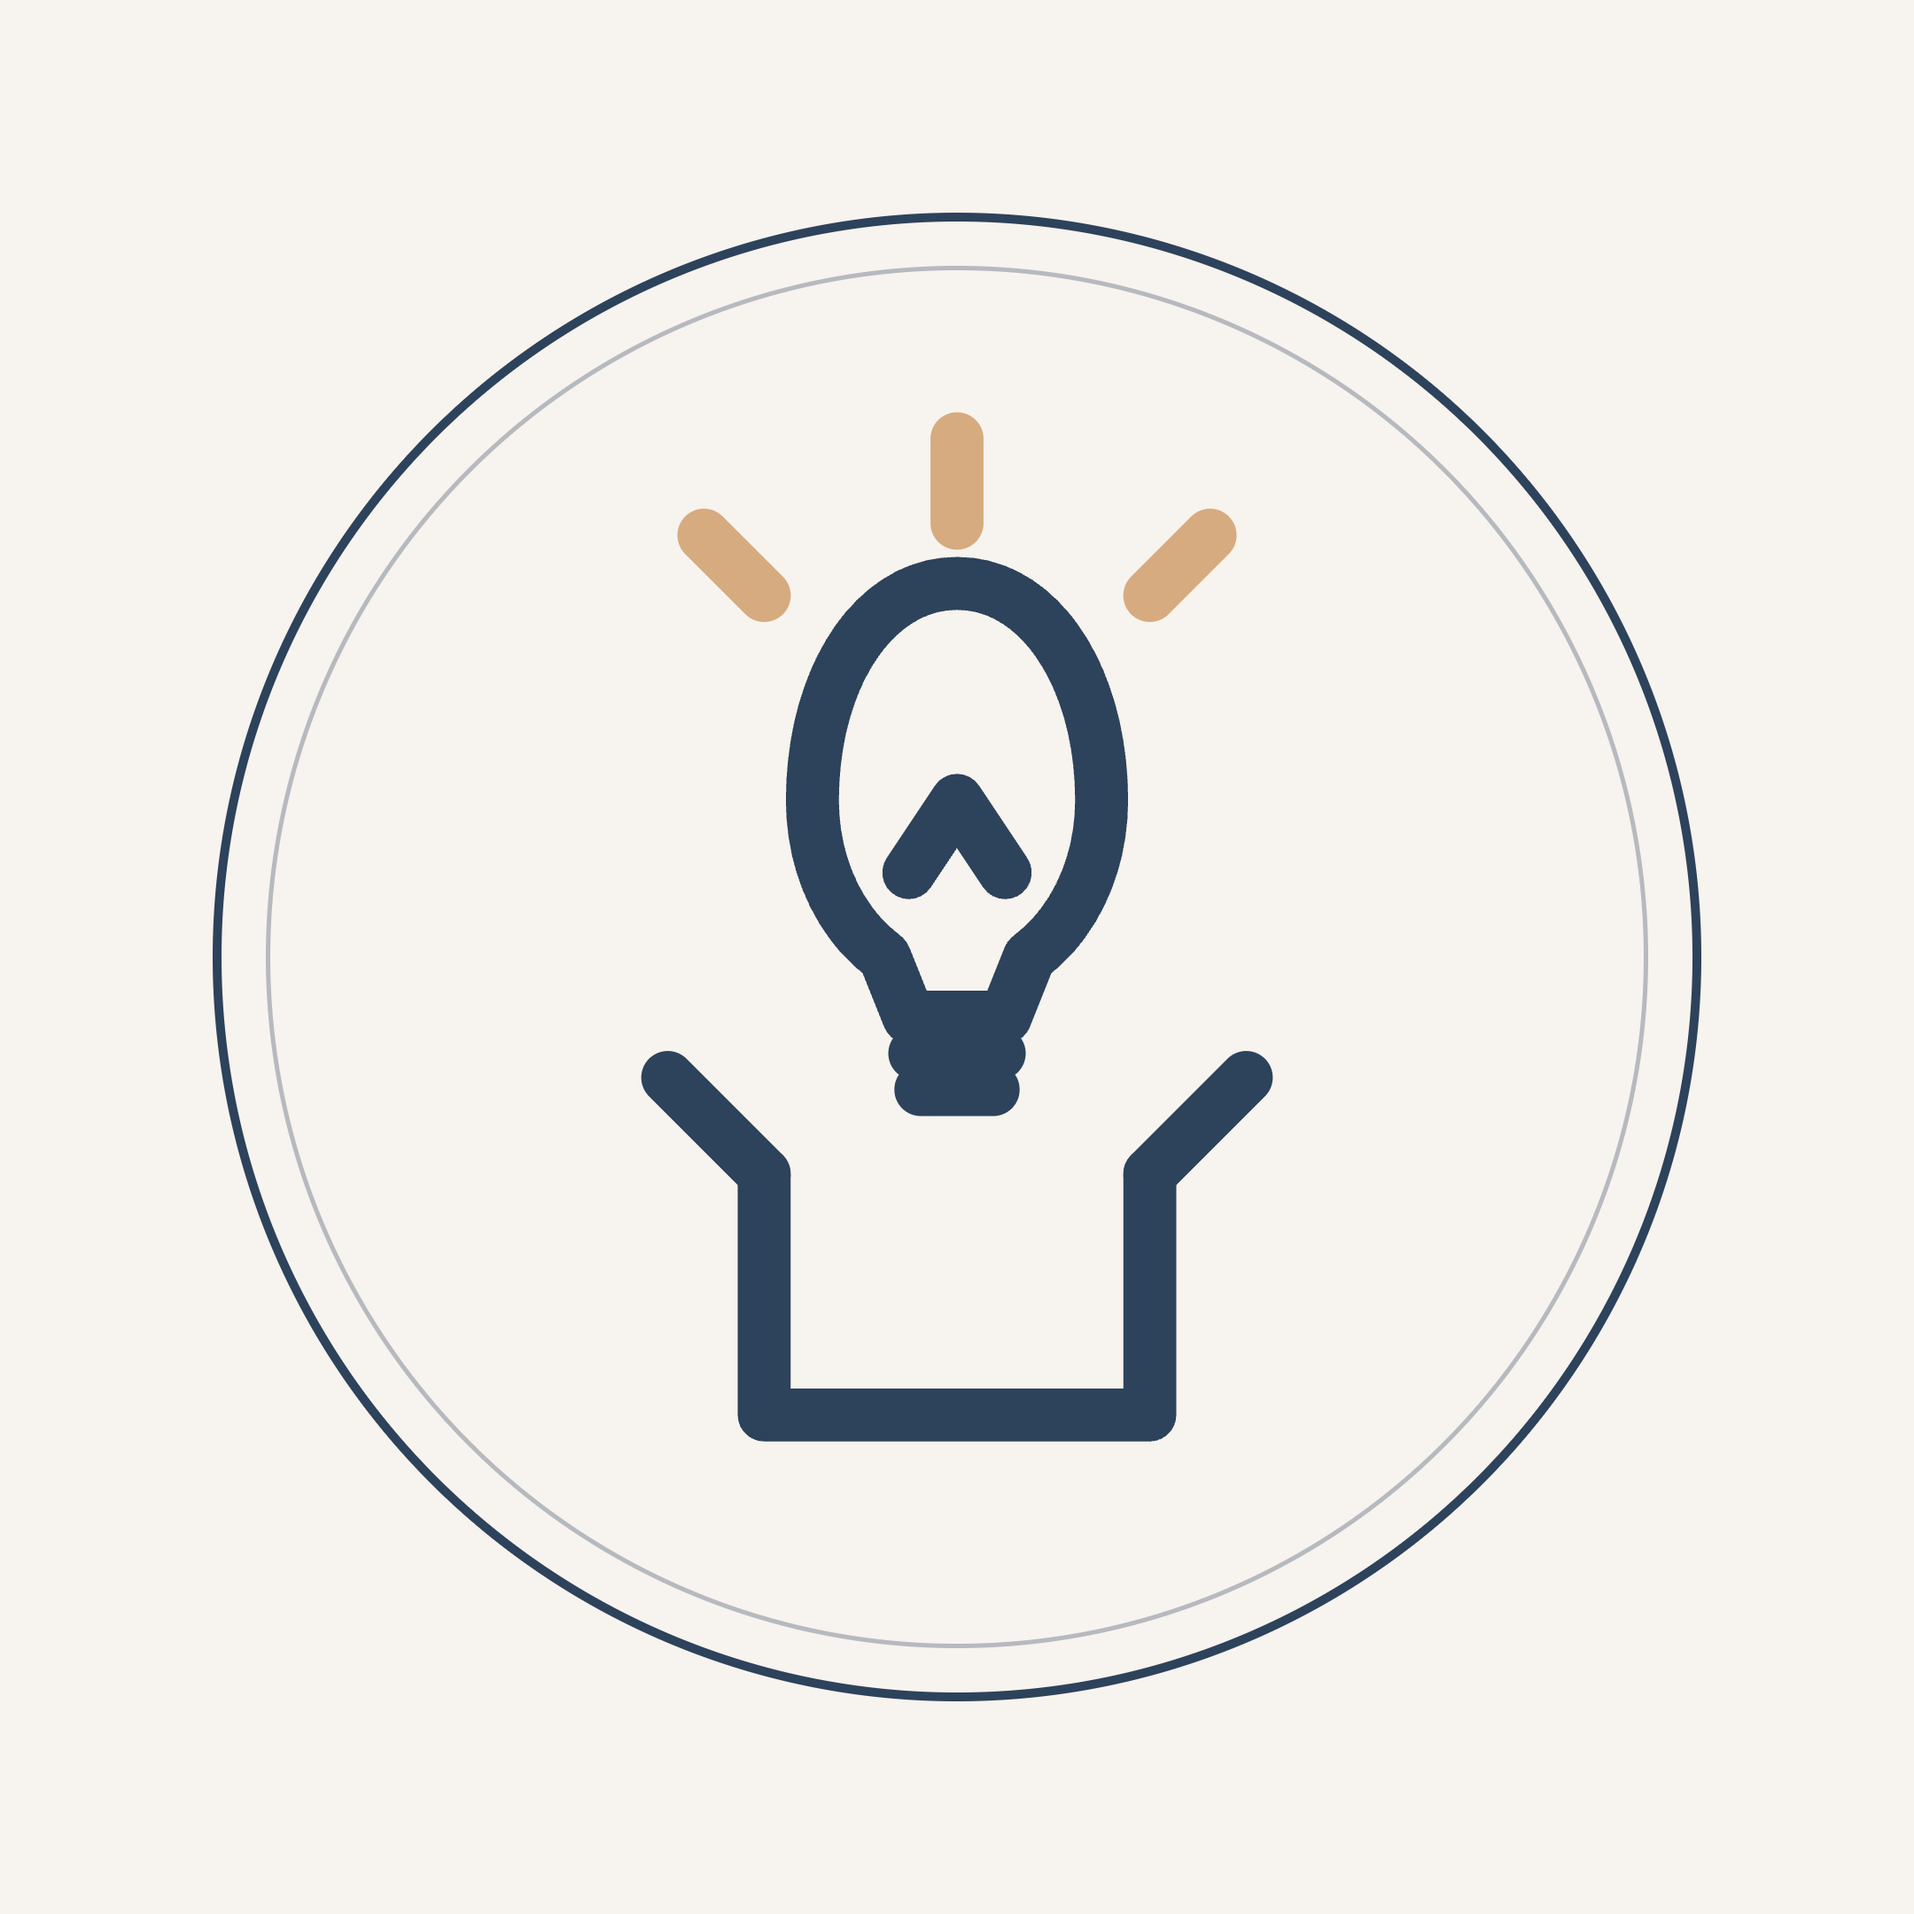
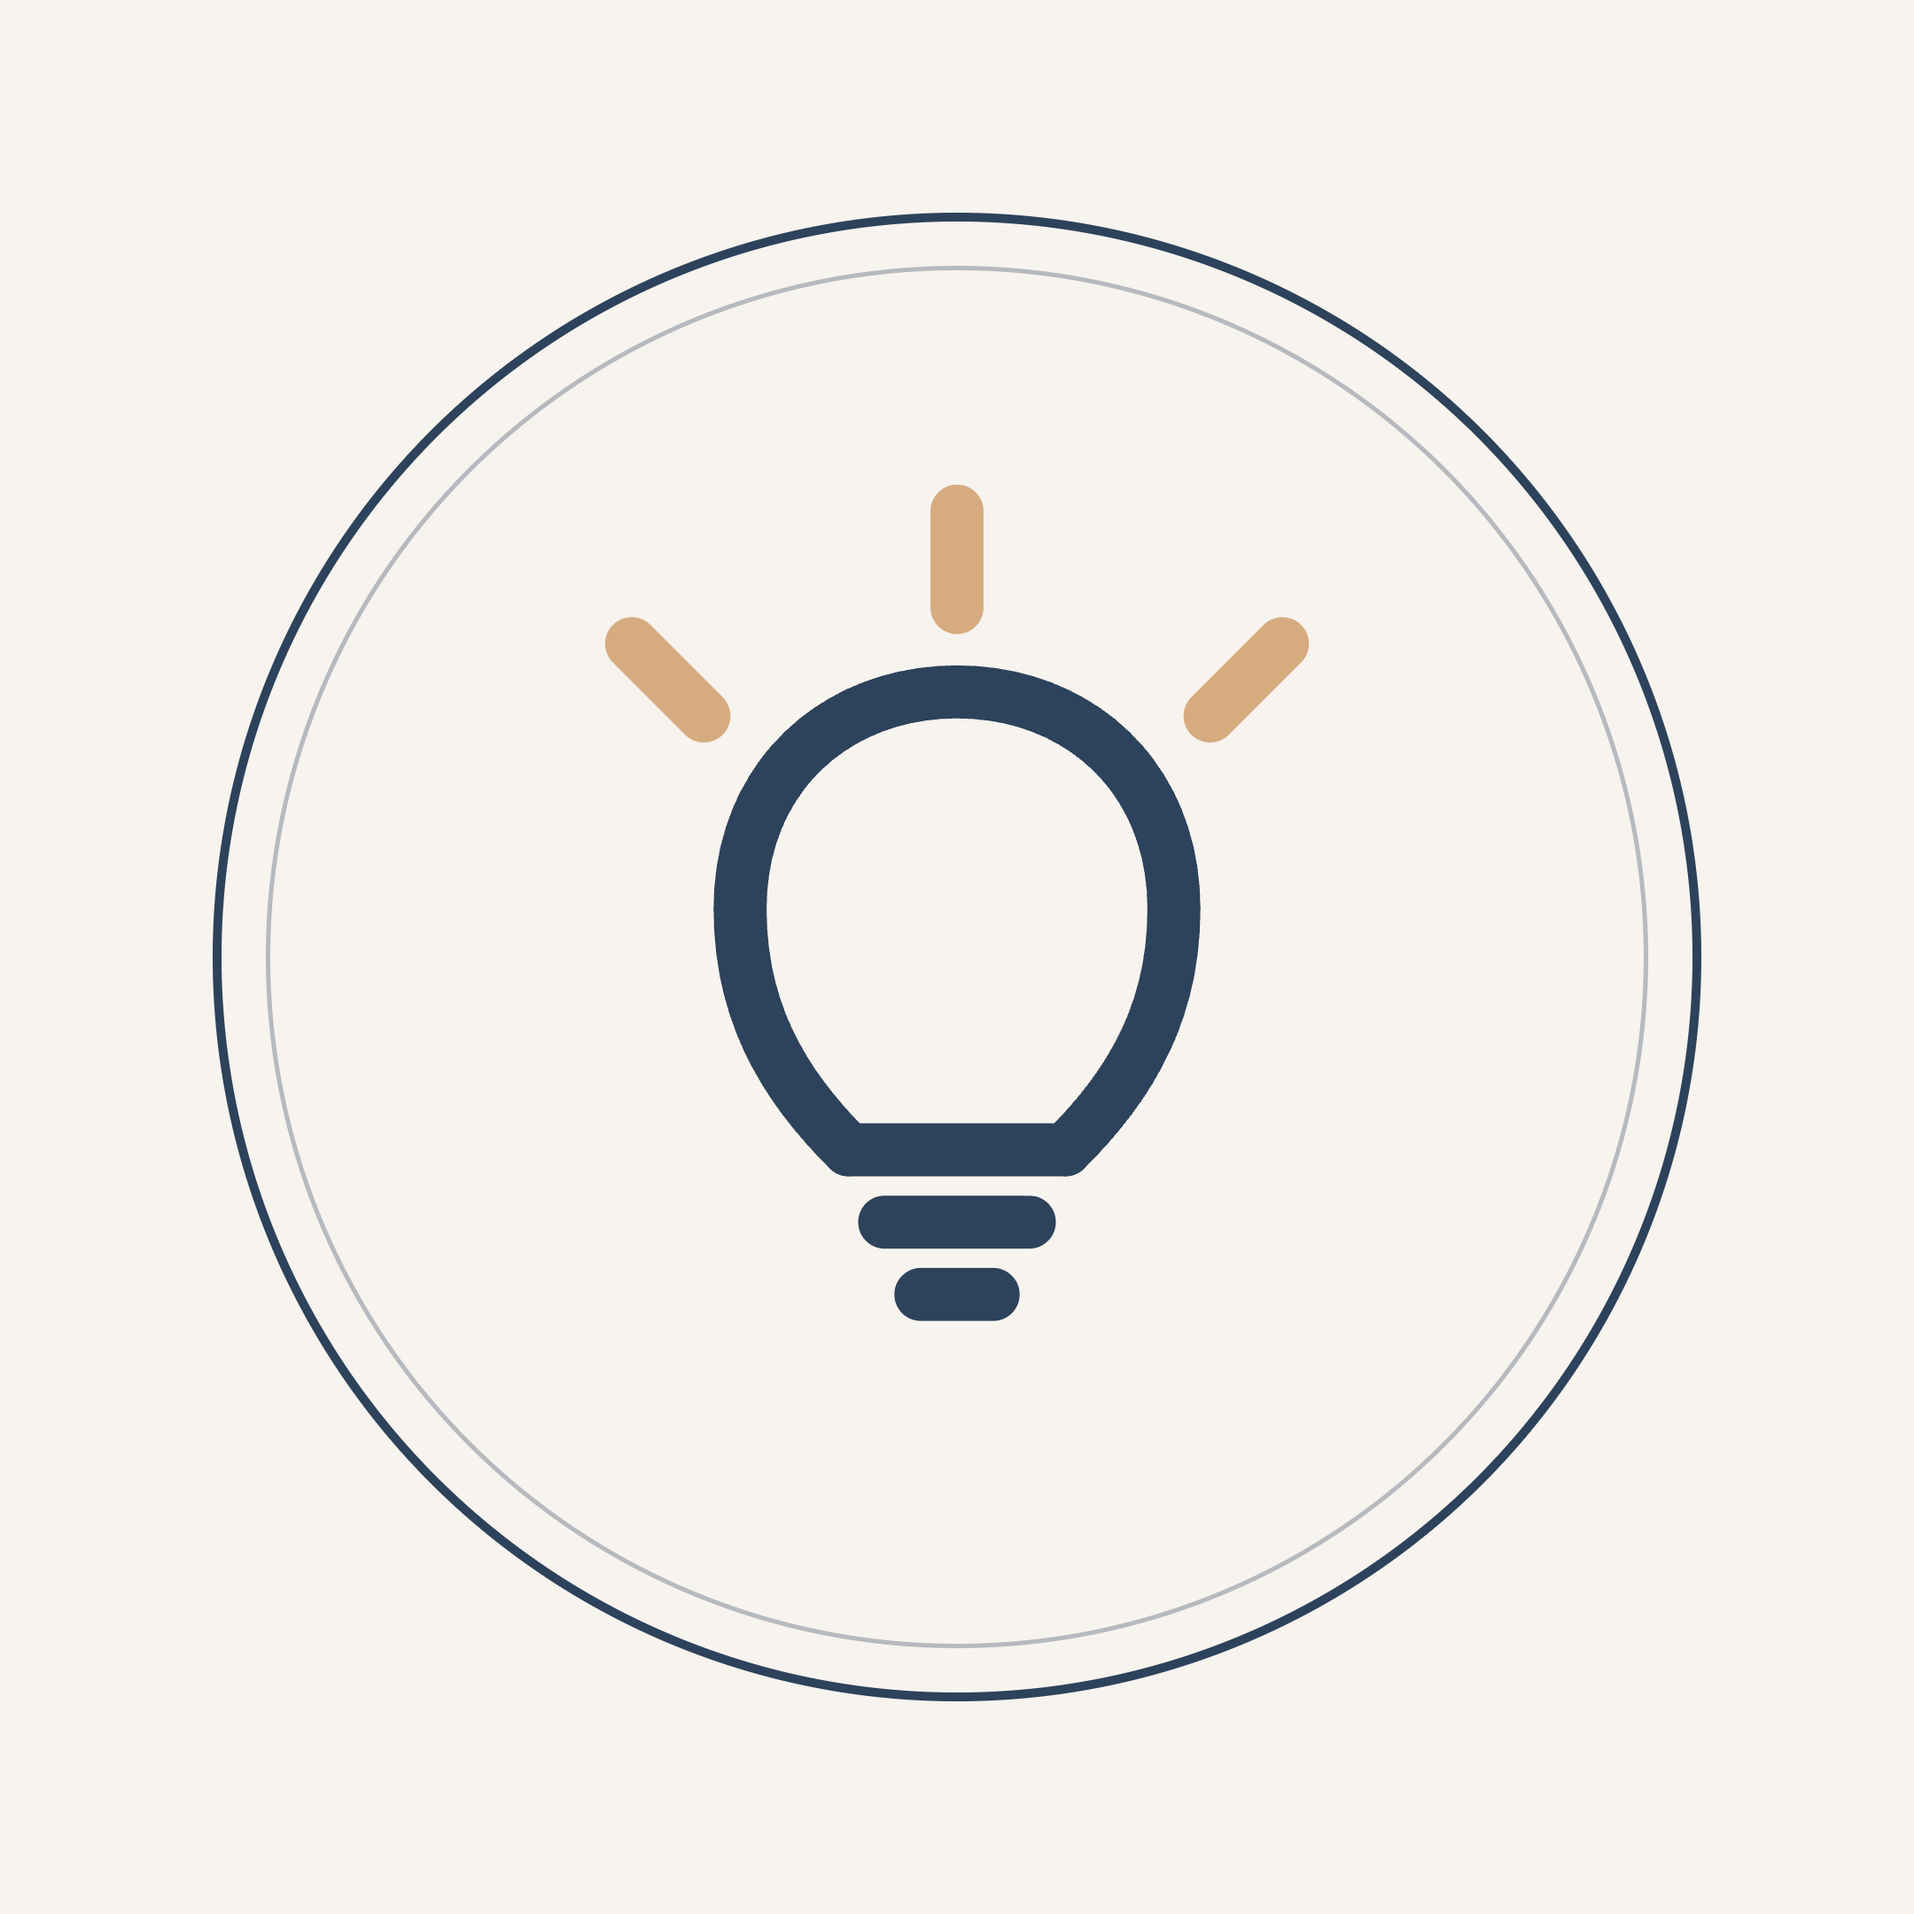
Package Ideas: plain lightbulb (round glass + screw base), drop the box

Changed region(s): [[0.3102, 0.2171, 0.6824, 0.7755]]

diff --git a/social/highlights.html b/social/highlights.html
@@ -96,21 +96,15 @@
     <div class="stage"><div class="cover" id="cover-ideas"><div class="bubble">
       <svg class="icon" viewBox="0 0 100 100">
         <!-- tan idea glow -->
-        <line class="a" x1="50" y1="7" x2="50" y2="14"/>
-        <line class="a" x1="29" y1="15" x2="34" y2="20"/>
-        <line class="a" x1="71" y1="15" x2="66" y2="20"/>
-        <!-- bulb glass: taller than wide, pinches to a neck -->
-        <path class="s" d="M44 50 C40 47 38 42 38 37 C38 27 43 19 50 19 C57 19 62 27 62 37 C62 42 60 47 56 50"/>
-        <!-- filament -->
-        <path class="s" d="M46 43 L50 37 L54 43"/>
-        <!-- neck + screw base -->
-        <path class="s" d="M44 50 L46 55 L54 55 L56 50"/>
-        <line class="s" x1="46.5" y1="58" x2="53.5" y2="58"/>
-        <line class="s" x1="47" y1="61" x2="53" y2="61"/>
-        <!-- open box -->
-        <path class="s" d="M34 68 L34 88 L66 88 L66 68"/>
-        <path class="s" d="M34 68 L26 60"/>
-        <path class="s" d="M66 68 L74 60"/>
+        <line class="a" x1="50" y1="13" x2="50" y2="21"/>
+        <line class="a" x1="23" y1="24" x2="29" y2="30"/>
+        <line class="a" x1="77" y1="24" x2="71" y2="30"/>
+        <!-- bulb glass: round top, open bottom -->
+        <path class="s" d="M41 66 C36 61 32 55 32 46 C32 35 40 28 50 28 C60 28 68 35 68 46 C68 55 64 61 59 66"/>
+        <!-- screw base, stacked + tapering -->
+        <line class="s" x1="41" y1="66" x2="59" y2="66"/>
+        <line class="s" x1="44" y1="72" x2="56" y2="72"/>
+        <line class="s" x1="47" y1="78" x2="53" y2="78"/>
       </svg>
     </div></div></div>
     <div class="label">Package Ideas</div>
